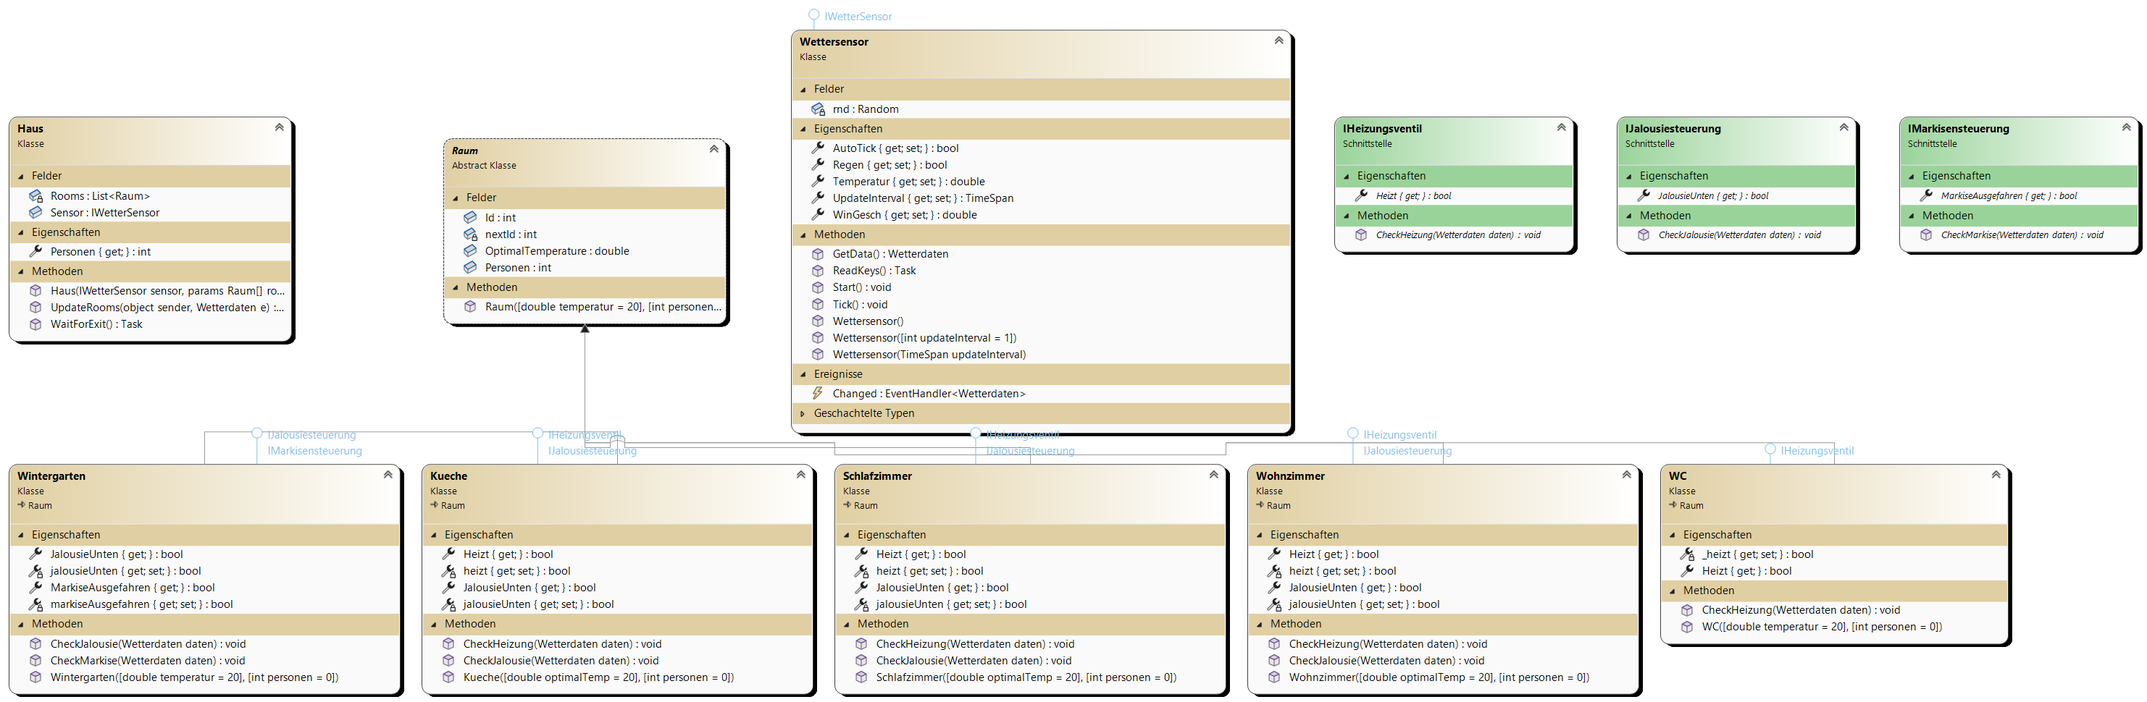
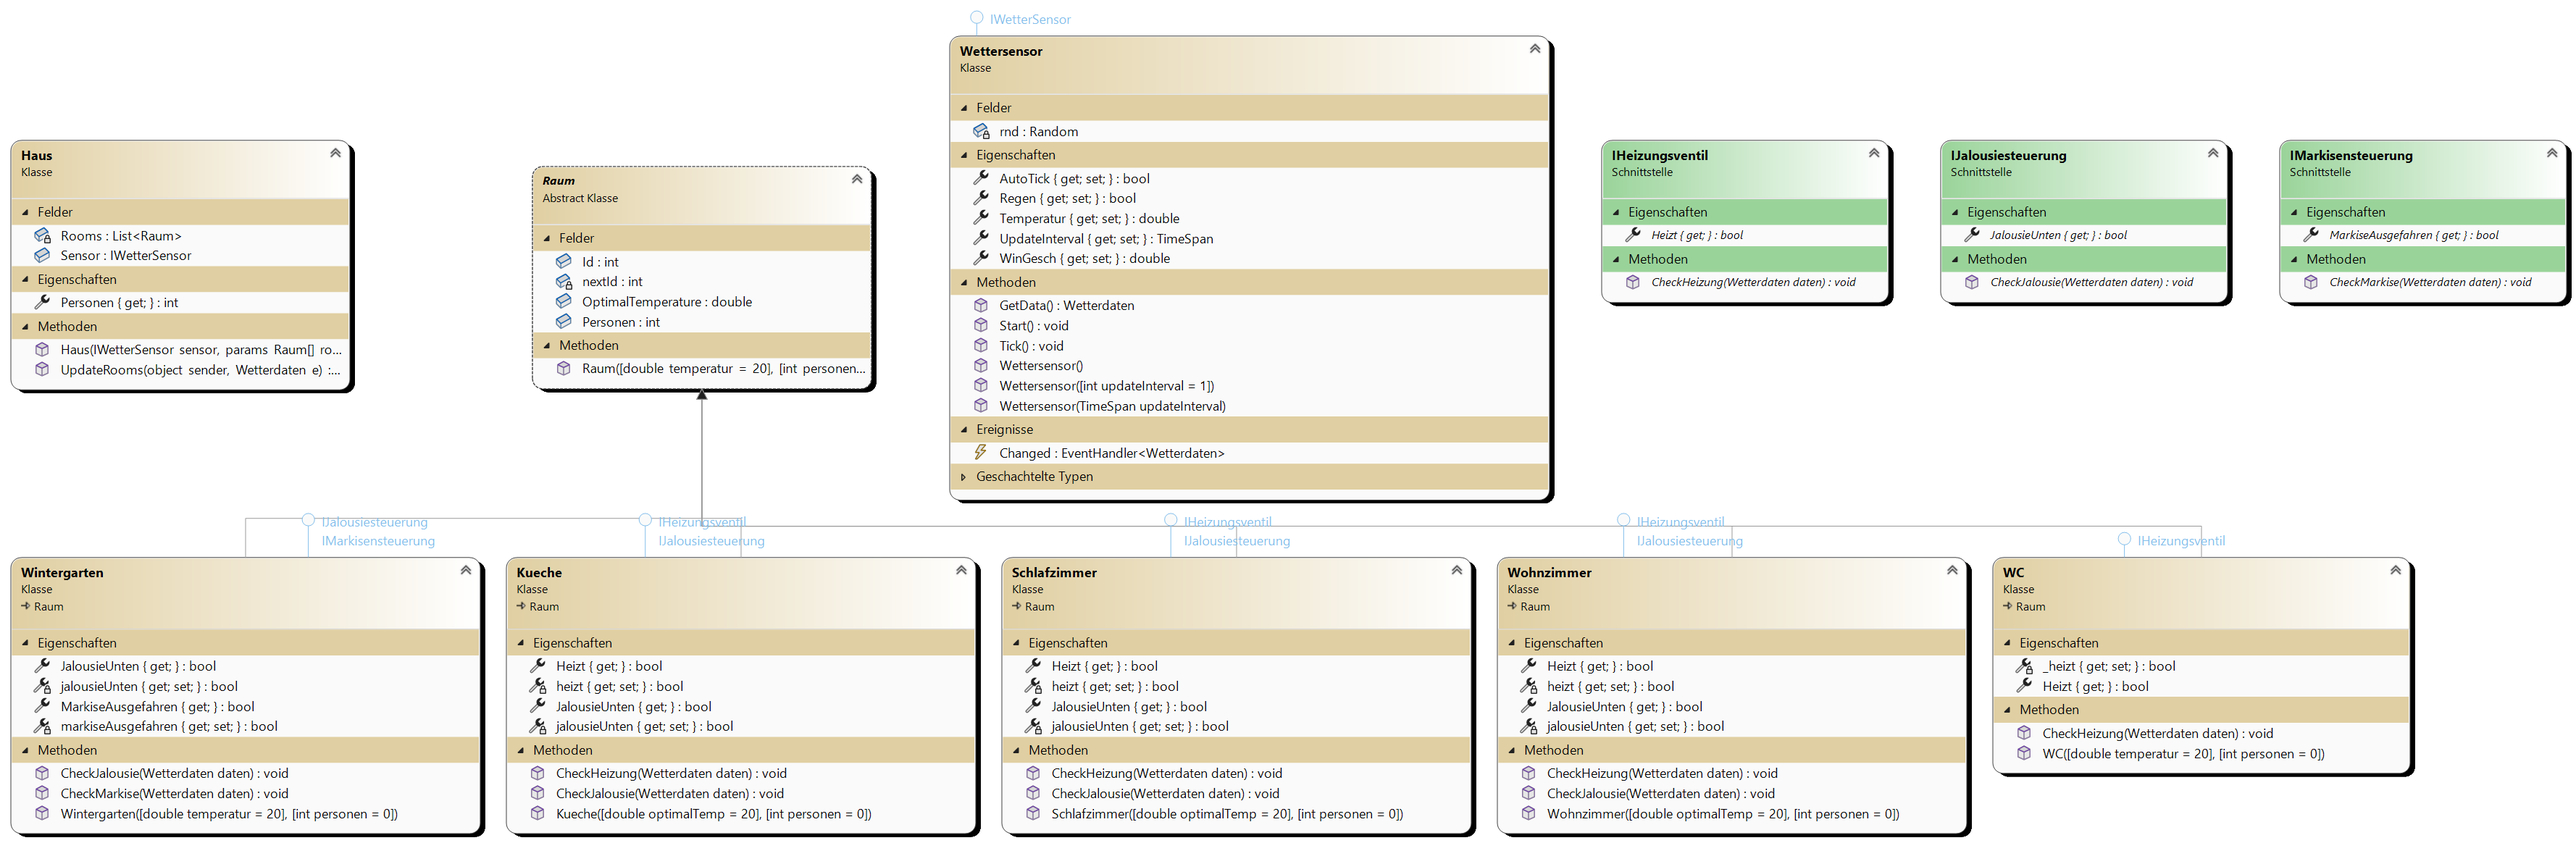
no message

diff --git a/04-SmartHome/Smart-Home/Klassen/Wettersensor.cs b/04-SmartHome/Smart-Home/Klassen/Wettersensor.cs
@@ -62,65 +62,6 @@
 			Console.WriteLine("Windgeschwindigkeit: " + WinGesch.ToString() + " km/h");
 			Console.WriteLine("Regen: " + (Regen ? "Ja" : "Nein"));
 			Changed?.Invoke(this, GetData());
-			//Haus.UpdateRooms();
-		}
-
-		/// <summary>
-		/// <para>Erleichtert das Steuern des Wetters</para>
-		/// <br>Pfeil nach oben: Temperatur + 1, Pfeil nach unten: Temperaut - 1 (min = 0)</br>
-		/// <br>Pfeil nach rechts: WindGesch + 1, Pfeil nach links: WindGesch - 1 (min = 0)</br>
-		/// <br>Plus(+): UpdateInterval + 1 Sek. (langsamer), Minus(-): UpdateInterval - 1 Sek. (schneller)</br>
-		/// </summary>
-		/// <returns></returns>
-		public async Task ReadKeys()
-		{
-			await Task.Run(() =>
-			{
-				while (true)
-				{
-					var key = Console.ReadKey(true);
-					switch (key.Key)
-					{
-						case ConsoleKey.UpArrow:
-							Temperatur++;
-							break;
-						case ConsoleKey.DownArrow:
-							Temperatur--;
-							break;
-
-						case ConsoleKey.RightArrow:
-							WinGesch++;
-							break;
-						case ConsoleKey.LeftArrow:
-							if (WinGesch >= 1)
-								WinGesch--;
-							break;
-
-						case ConsoleKey.Spacebar:
-							Regen = key.Modifiers != ConsoleModifiers.Shift;
-							break;
-
-
-						case ConsoleKey.Add:
-						case ConsoleKey.OemPlus:
-							if (UpdateInterval.Seconds >= 1)
-								UpdateInterval = TimeSpan.FromSeconds(UpdateInterval.Seconds + 1);
-							break;
-						case ConsoleKey.D1:
-							if (key.Modifiers == ConsoleModifiers.Shift)
-								UpdateInterval = TimeSpan.FromSeconds(UpdateInterval.Seconds + 1);
-							break;
-						case ConsoleKey.Subtract:
-						case ConsoleKey.OemMinus:
-							if (UpdateInterval.Seconds >= 1)
-								UpdateInterval = TimeSpan.FromSeconds(UpdateInterval.Seconds - 1);
-							break;
-
-						default:
-							return;
-					}
-				}
-			});
 		}
 
 		public class Wetterdaten

diff --git a/04-SmartHome/Smart-Home/Klassen/WC.cs b/04-SmartHome/Smart-Home/Klassen/WC.cs
@@ -5,21 +5,21 @@
 		public WC(double temperatur = 20, int personen = 0) : base(temperatur, personen)
 		{
 		}
-		private bool _heizt { get; set; }
-		public bool Heizt { get { return _heizt; } }
+		private bool heizt { get; set; }
+		public bool Heizt { get { return heizt; } }
 		public void CheckHeizung(Wettersensor.Wetterdaten daten)
 		{
 			if (daten.Temperatur < OptimalTemperature)
 			{
-				if (!_heizt)
+				if (!heizt)
 					Console.WriteLine($"{GetType().Name} (id={Id}) wird jetzt geheizt");
-				_heizt = true;
+				heizt = true;
 			}
 			else
 			{
-				if (_heizt)
+				if (heizt)
 					Console.WriteLine($"{GetType().Name} (id={Id}) wird jetzt nicht mehr geheizt");
-				_heizt = false;
+				heizt = false;
 			}
 		}
 	}

diff --git a/04-SmartHome/Smart-Home/Klassen/Haus.cs b/04-SmartHome/Smart-Home/Klassen/Haus.cs
@@ -25,18 +25,5 @@
 			}
 			Console.WriteLine("----------------------------------------");
 		}
-
-		/// <summary>
-		/// <para>Erleichtert das Steuern des Wetters</para>
-		/// <br>Pfeil nach oben: Temperatur + 1, Pfeil nach unten: Temperaut - 1 (min = 0)</br>
-		/// <br>Pfeil nach rechts: WindGesch + 1, Pfeil nach links: WindGesch - 1 (min = 0)</br>
-		/// <br>Plus(+): UpdateInterval + 1 Sek. (langsamer), Minus(-): UpdateInterval - 1 Sek. (schneller)</br>
-		/// </summary>
-		/// <returns></returns>
-		public async Task WaitForExit()
-		{
-			if (Sensor is Wettersensor wettersensor)
-				await wettersensor.ReadKeys();
-		}
 	}
 }

diff --git a/04-SmartHome/Smart-Home/Klassen/Wintergarten.cs b/04-SmartHome/Smart-Home/Klassen/Wintergarten.cs
@@ -11,7 +11,7 @@
 
 		public void CheckMarkise(Wettersensor.Wetterdaten daten)
 		{
-			bool newStatus = daten.WindGesch <= Globals.MarkiseMaxWindSpeed && daten.Temperatur > OptimalTemperature && (Globals.MarkiseCanBeUsedInRain ? true : !daten.Regen);
+			bool newStatus = daten.WindGesch <= Constants.MarkiseMaxWindSpeed && daten.Temperatur > OptimalTemperature && (Constants.MarkiseCanBeUsedInRain ? true : !daten.Regen);
             if (newStatus == markiseAusgefahren)
 				return;
 

diff --git a/04-SmartHome/Smart-Home.Tests/Klassen/WintergartenTests.cs b/04-SmartHome/Smart-Home.Tests/Klassen/WintergartenTests.cs
@@ -51,7 +51,7 @@ namespace Smart_Home.Klassen.Tests
 
 			sut.CheckMarkise(data);
 
-			var expected = data.Temperatur > sut.OptimalTemperature && (Globals.MarkiseCanBeUsedInRain ? true : !data.Regen) && data.WindGesch <= Globals.MarkiseMaxWindSpeed;
+			var expected = data.Temperatur > sut.OptimalTemperature && (Constants.MarkiseCanBeUsedInRain ? true : !data.Regen) && data.WindGesch <= Constants.MarkiseMaxWindSpeed;
 			Assert.AreEqual(expected, sut.MarkiseAusgefahren);
 		}
 	}

diff --git a/04-SmartHome/Smart-Home/Program.cs b/04-SmartHome/Smart-Home/Program.cs
@@ -16,7 +16,8 @@ namespace Smart_Home
 			var sensor = new Wettersensor(1);
 
 			var haus = new Haus(sensor, kueche, schlafzimmer, wc, wintergarten, wohnzimmer);
-			await haus.WaitForExit();
+
+			await Task.Delay(TimeSpan.FromMinutes(3));
 		}
 	}
 }

diff --git a/04-SmartHome/Smart-Home/Constants.cs b/04-SmartHome/Smart-Home/Constants.cs
@@ -1,0 +1,8 @@
+namespace Smart_Home
+{
+	internal static class Constants
+	{
+		public const int MarkiseMaxWindSpeed = 30;
+		public const bool MarkiseCanBeUsedInRain = false;
+	}
+}
